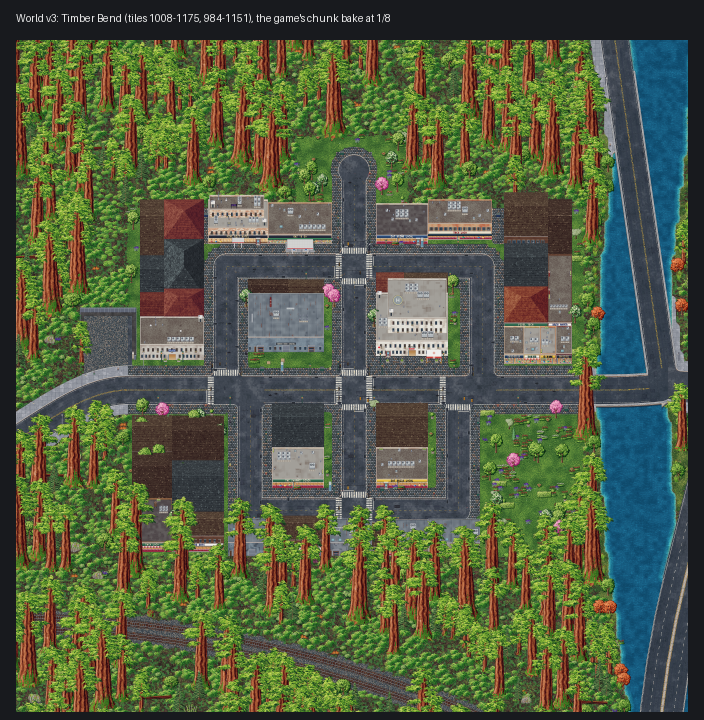
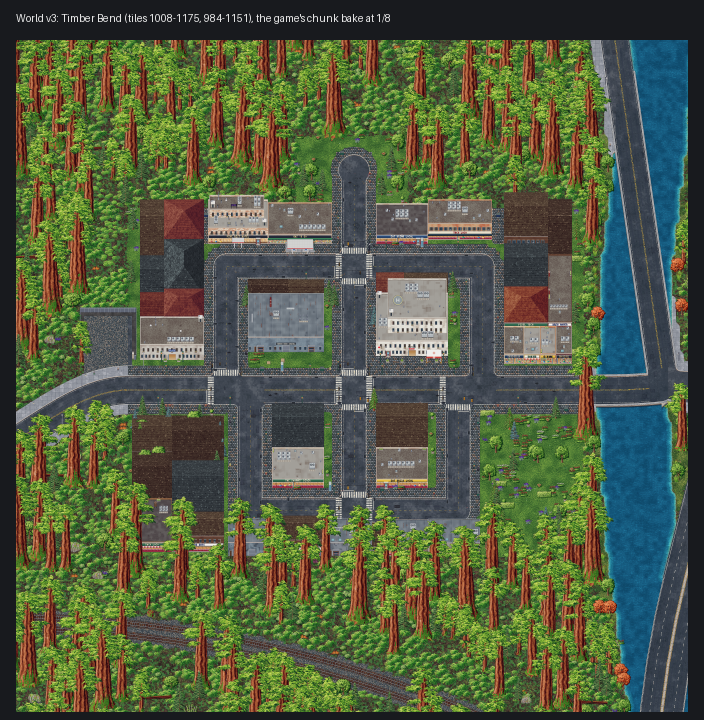
World v3: each town's own garden trees in art v2 (Timber Bend's firs and cedars, Willow Crossing's oaks and apple trees, not the city's cherries); the pictures and 8.13.1's notes again
Claude-Session: https://claude.ai/code/session_015TdwbASoLBxZr1VoEZGToX

diff --git a/client/art2/game/statics.js b/client/art2/game/statics.js
@@ -1661,6 +1661,8 @@ function plantFor(c, p) {
     if (st === 'park') return [pick(c.M.lake && c.M.lake[c.M.idx(Math.floor(p.x / TILE), Math.floor(p.y / TILE))] ? ['willow'] : ['oak', 'maple', 'oak', 'willow', 'cherry', 'mapleAutumn', 'redMaple'], u), 1.4 + u2 * 0.2];
     if (st === 'beach' || coastal) return [pick(['coconut', 'royal', 'leaning', 'fanSkirt'], u), 1.25];
     if (st === 'luxury') return [t === 'tree_a' ? pick(['royal', 'royal', 'cypress', 'olive', 'magnolia'], u) : pick(['magnolia', 'flowerTree', 'cypress', 'olive'], u), 1.3];
+    if (di === 57) return [pick(['fir', 'cedar', 'spruce', 'fir', 'maple'], u), 1.35];   // (Timber Bend's gardens: its woods' trees; Willow Crossing's shade and orchard trees - 8.13.1)
+    if (di === 58) return [pick(['oak', 'maple', 'apple', 'oak'], u), 1.3];
     if (st === 'oldtown') return [pick(['cherry', 'olive', 'cypress', 'magnolia', 'flowerTree', 'street'], u), 1.3];
     if (st === 'arts') return [pick(['ginkgo', 'street', 'cherry', 'ginkgo', 'magnolia'], u), 1.3];
     if (st === 'houses' || st === 'rural') return [pick(t === 'tree_a' ? ['oak', 'maple', 'birch', 'mapleAutumn', 'flowerTree', 'apple'] : ['cherry', 'magnolia', 'maple', 'oak', 'redMaple'], u), 1.35];

diff --git a/docs/WORLD-V3.md b/docs/WORLD-V3.md
@@ -3004,7 +3004,9 @@ beach style's `plaza` brown paving); few plain roofs anywhere.
 blocks in wood siding - the logging town's dark timber, the farm town's white and cream clapboard (a red barn board
 now and then), the beach towns' pastel boards - one or two storeys under a shingled gable or hip roof (a section up to
 16 tiles: the generator's buildings are cut into sections no bigger), a shopfront six times in ten flat-roofed behind a
-false front (its parapet); the motel, the clinic and the sheriff two storeys at most. The classic renderer (`client/render/buildings.js`) paints the towns' facades in the same woods (`TOWN_WALLS`).
+false front (its parapet); the motel, the clinic and the sheriff two storeys at most; the gardens' trees by town -
+Timber Bend's firs, cedars and spruces, Willow Crossing's oaks, maples and apple trees (the oldtown style's cherries
+and magnolias were the city's), Sandpiper Bay's palms. The classic renderer (`client/render/buildings.js`) paints the towns' facades in the same woods (`TOWN_WALLS`).
 
 **Northshore's beach towns less dense** (district 54, 8.14): the beach town's style, sparser still (`TOWN_STYLES[54]`:
 lots 16 tiles at least, houses three to one over cafes and bars, gardens for the gaps, almost no plain roofs).
@@ -3042,8 +3044,10 @@ Willow Road's south arm thinning into the fields. What looks wrong:
   (the clinic, the sheriff, the motel, the sawmill as the industrial prefab) in its paving; the rows at the town's ends
   are flat roofs - from above the wood siding only shows on the south walls. The new prefabs are what's missing: the
   wooden shopfronts with porches, the sawmill with its log yard, the lodge.
-- **Willow Crossing's corners are asphalt:** the generator's lots and the wide sidewalks where the loops meet the main
-  street; the grain elevator is the industrial prefab (no silos), the co-op the farmstead.
+- **Willow Crossing's long grey roofs:** the rows along Willow Road's south arm and at the east end of the main street
+  are long plain buildings and a car park (the market strip's); the striped car parks the `yard` filler laid at every
+  corner are gardens now (the first pictures had them); the grain elevator is the industrial prefab (no silos), the
+  co-op the farmstead.
 - **Sandpiper Bay's boardwalk is a stair-step** on the diagonal shore (planks by columns), the pier plain planks (no
   rails, no end); the beachfront row along Pier Street is two houses; the green between the loops and the sand is park
   (no street faces it). A third loop along the top of the beach (Beach Street, 24 tiles below Pier Street) was tried:

diff --git a/docs/DEVLOG.md b/docs/DEVLOG.md
@@ -7576,7 +7576,8 @@ towns "less dense".
 - **The looks:** art v2 draws a town's houses and shop rows in wood siding - Timber Bend's dark timber, Willow
   Crossing's white and cream clapboard, the beach towns' pastel boards - one or two storeys, shingled pitched roofs,
   false fronts on most shopfronts, the motel, clinic and sheriff two storeys at most; gardens between (no striped car
-  parks); the classic renderer paints their facades in the same woods.
+  parks), with each town's trees (firs and cedars at Timber Bend, oaks and apple trees at Willow Crossing, palms at
+  Sandpiper Bay); the classic renderer paints their facades in the same woods.
 - Not done: the towns' own prefabs (the wooden shopfronts with porches, the sawmill and log yard, the lodge, the white
   church, the grain elevator and silos, the feed store, the co-op's loading dock, the surf shop, cottages, beach houses
   on stilts) - docs/WORLD-V3.md 8.13.1's "what's left". Nothing live changes: the world hash stays 6b6e16fdef9f; the
